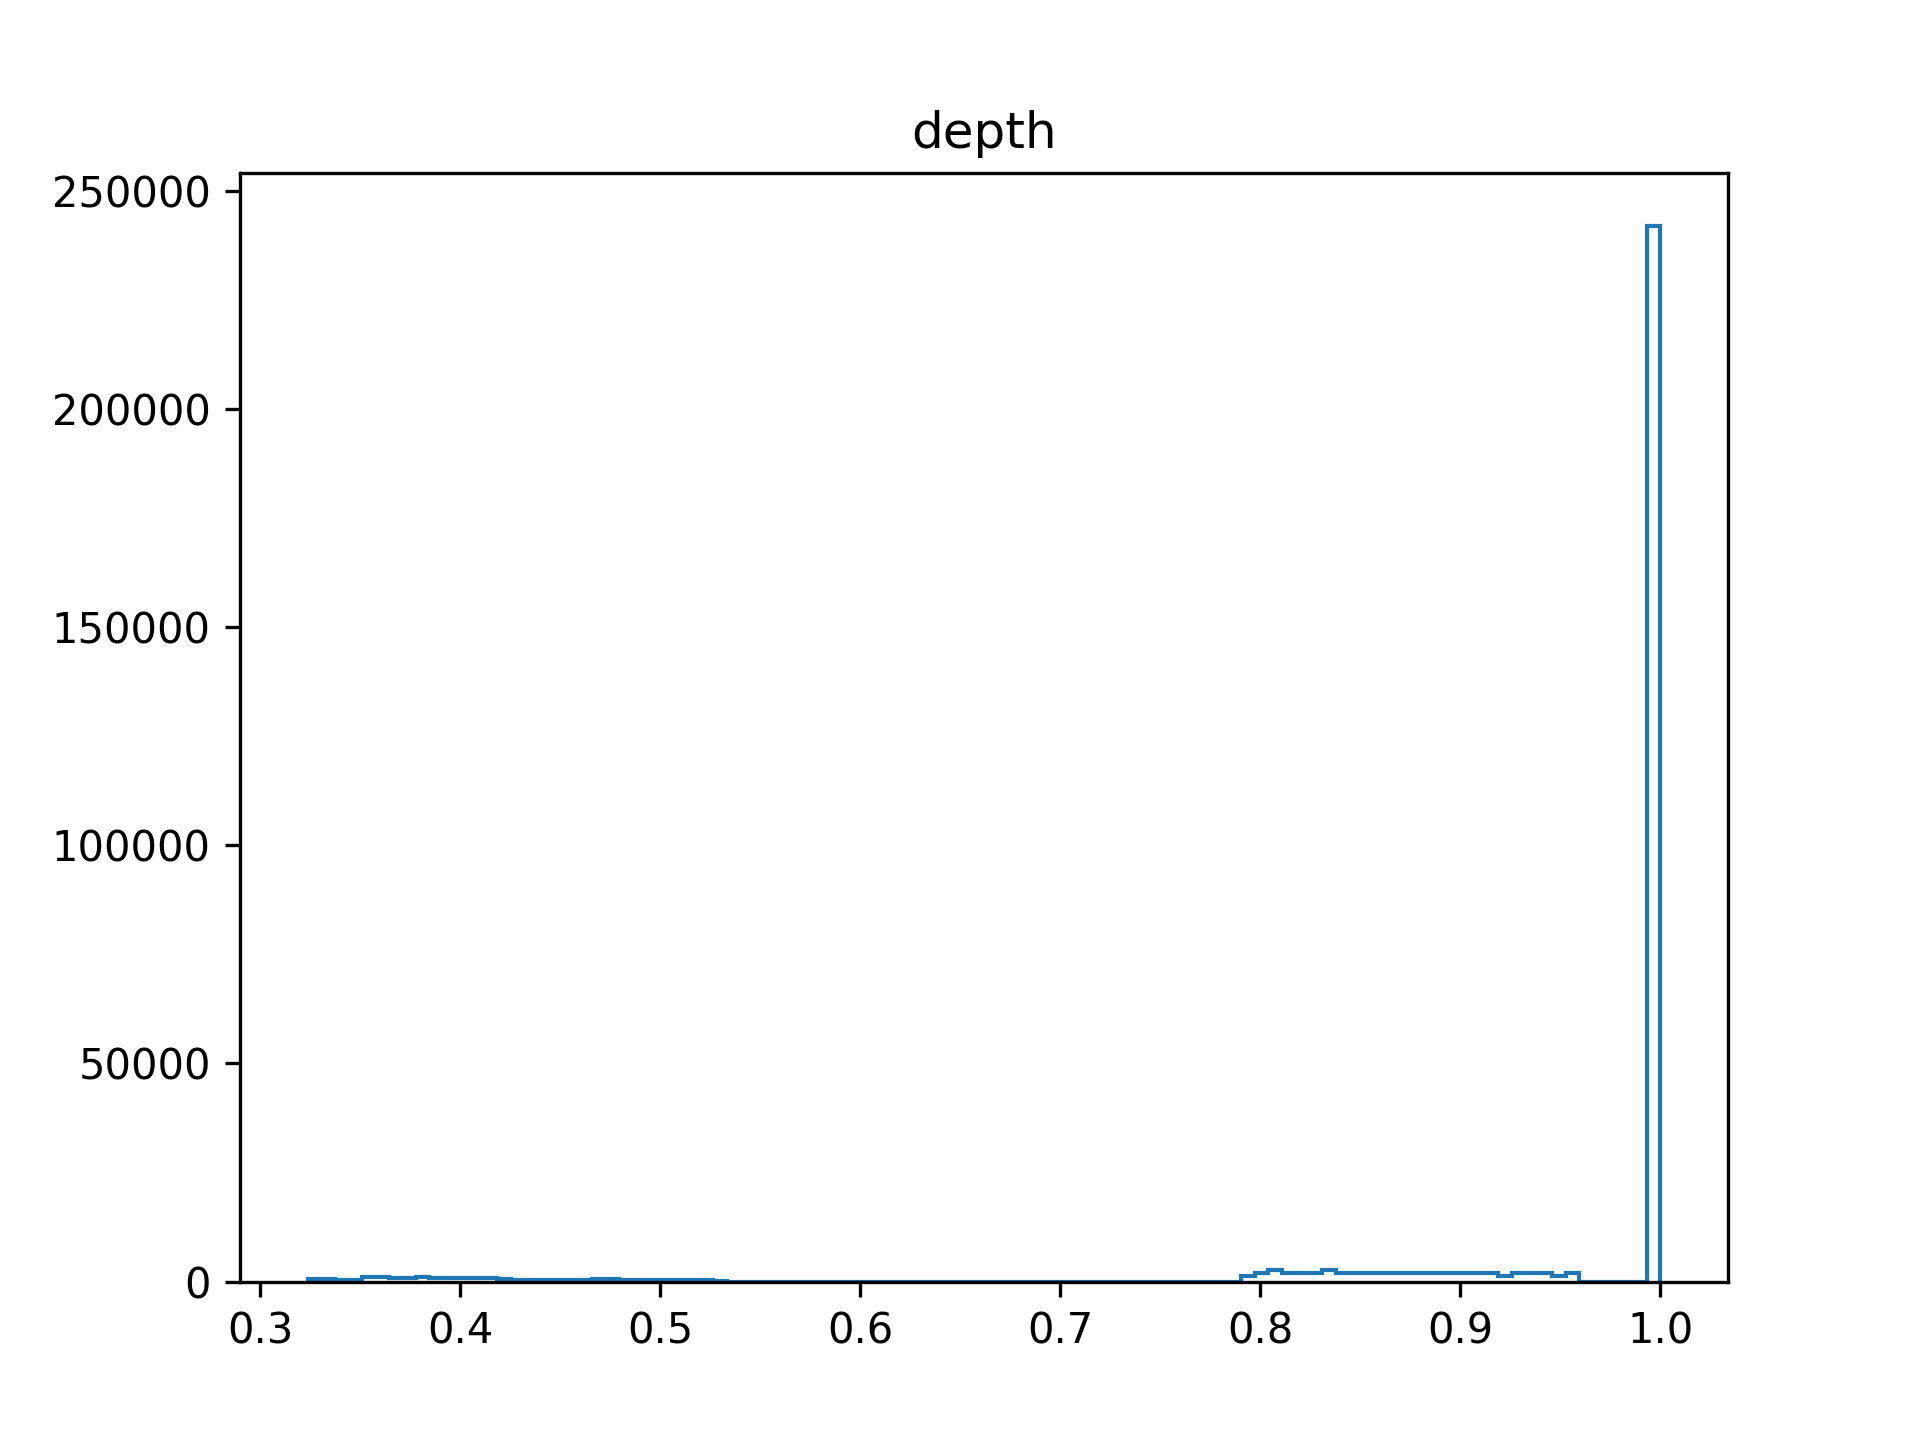
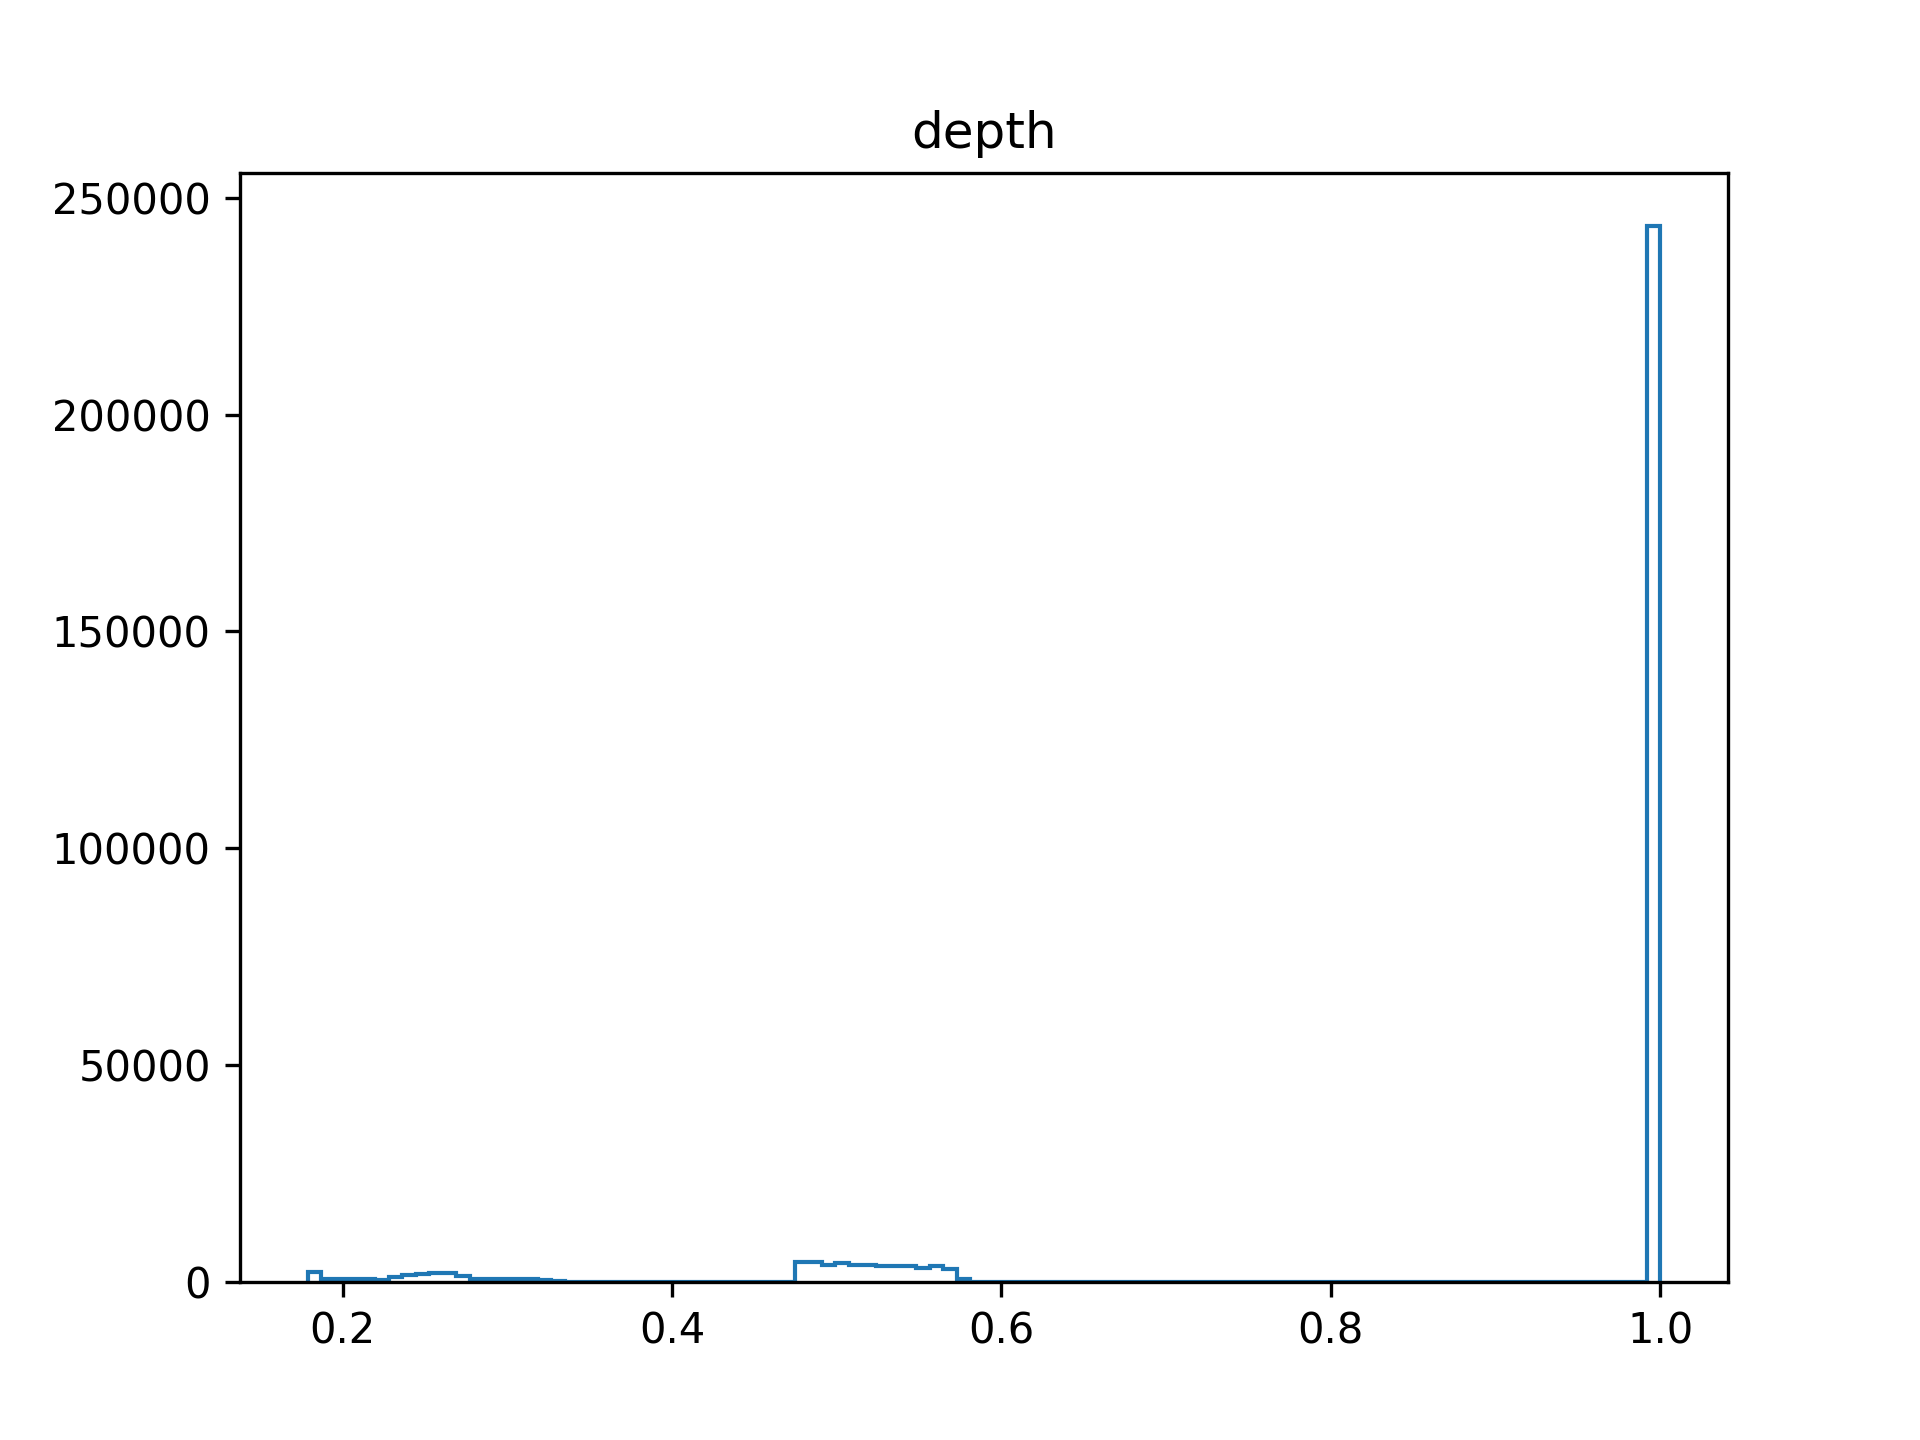
Auto commit

diff --git a/third_test_point_cloud.py b/third_test_point_cloud.py
@@ -18,7 +18,7 @@ print(np.max(depth_map))
 print(np.min(depth_map))
 print(np.mean(depth_map))
 
-min_depth, max_depth = 1, 4
+min_depth, max_depth = 1, 6
 clipped_depth = np.clip(depth_map, min_depth, max_depth)
 normalized_depth = (clipped_depth - min_depth) / (max_depth - min_depth)
 depth_map = normalized_depth
@@ -45,4 +45,4 @@ plt.imshow(depth_map, cmap="viridis")
 plt.colorbar(label="Depth")
 plt.title("Depth Map")
 
-plt.savefig("3rd1.png", dpi=300)
+plt.savefig("3rd.png", dpi=300)
